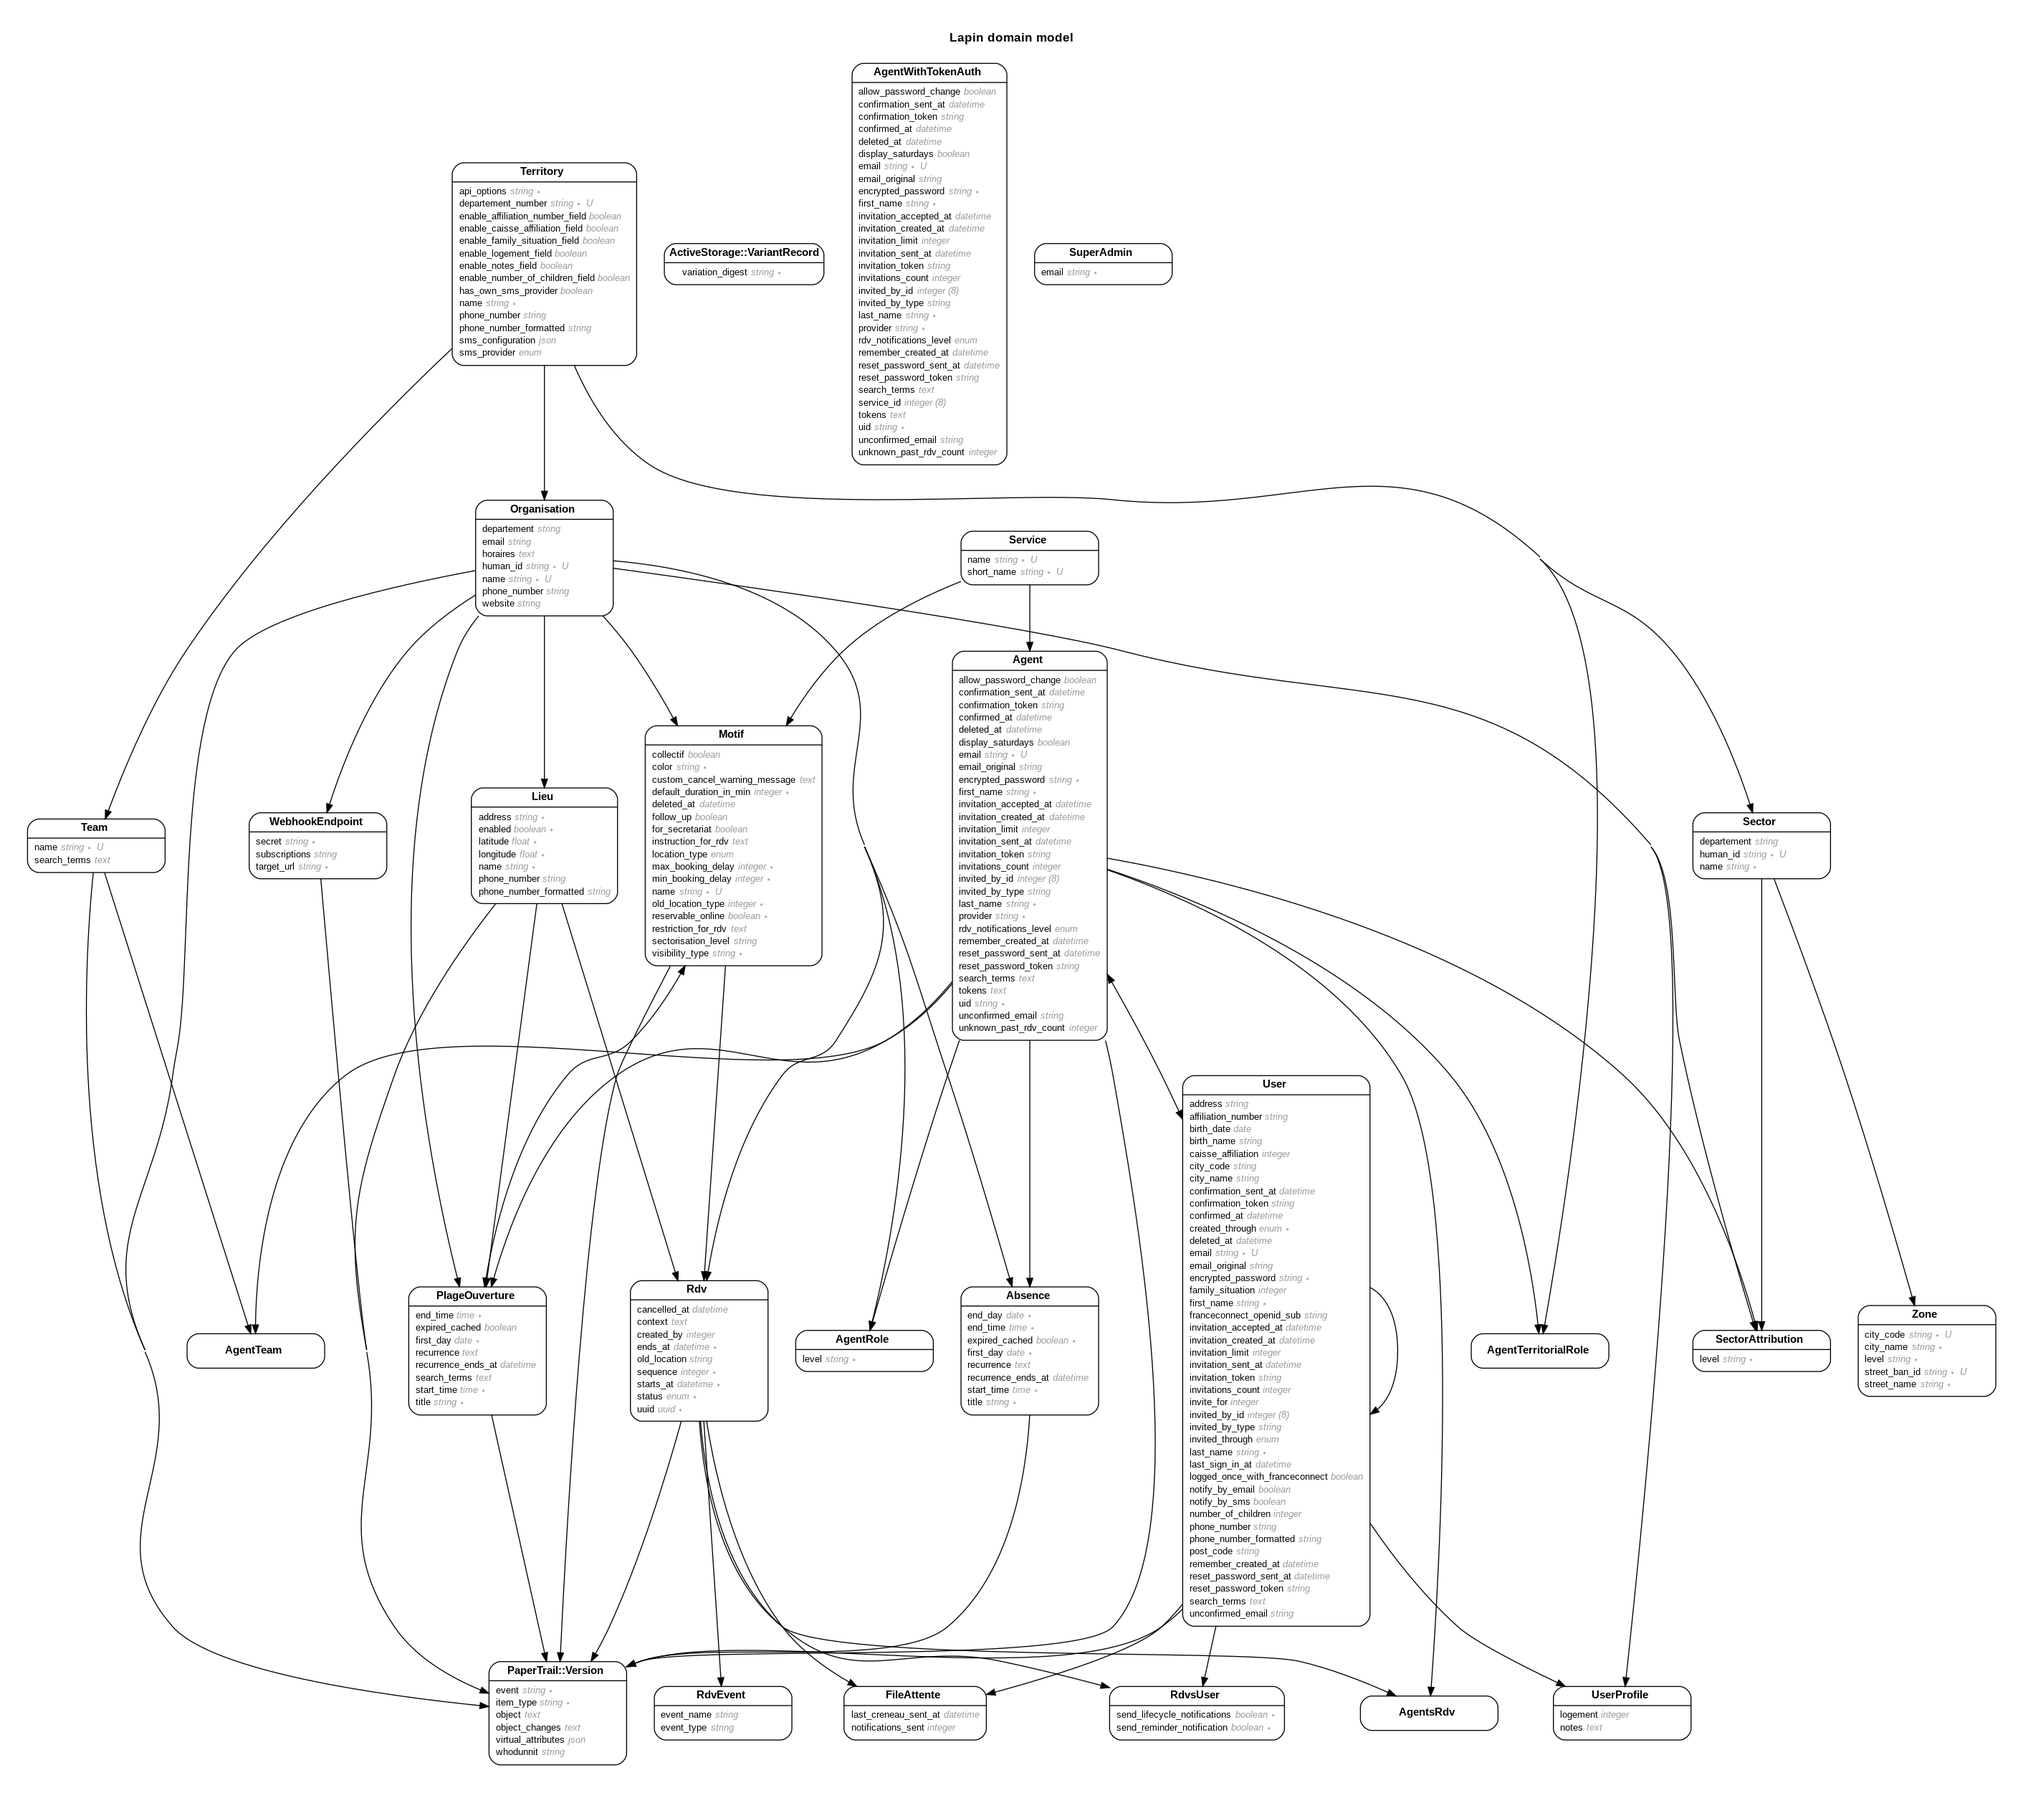
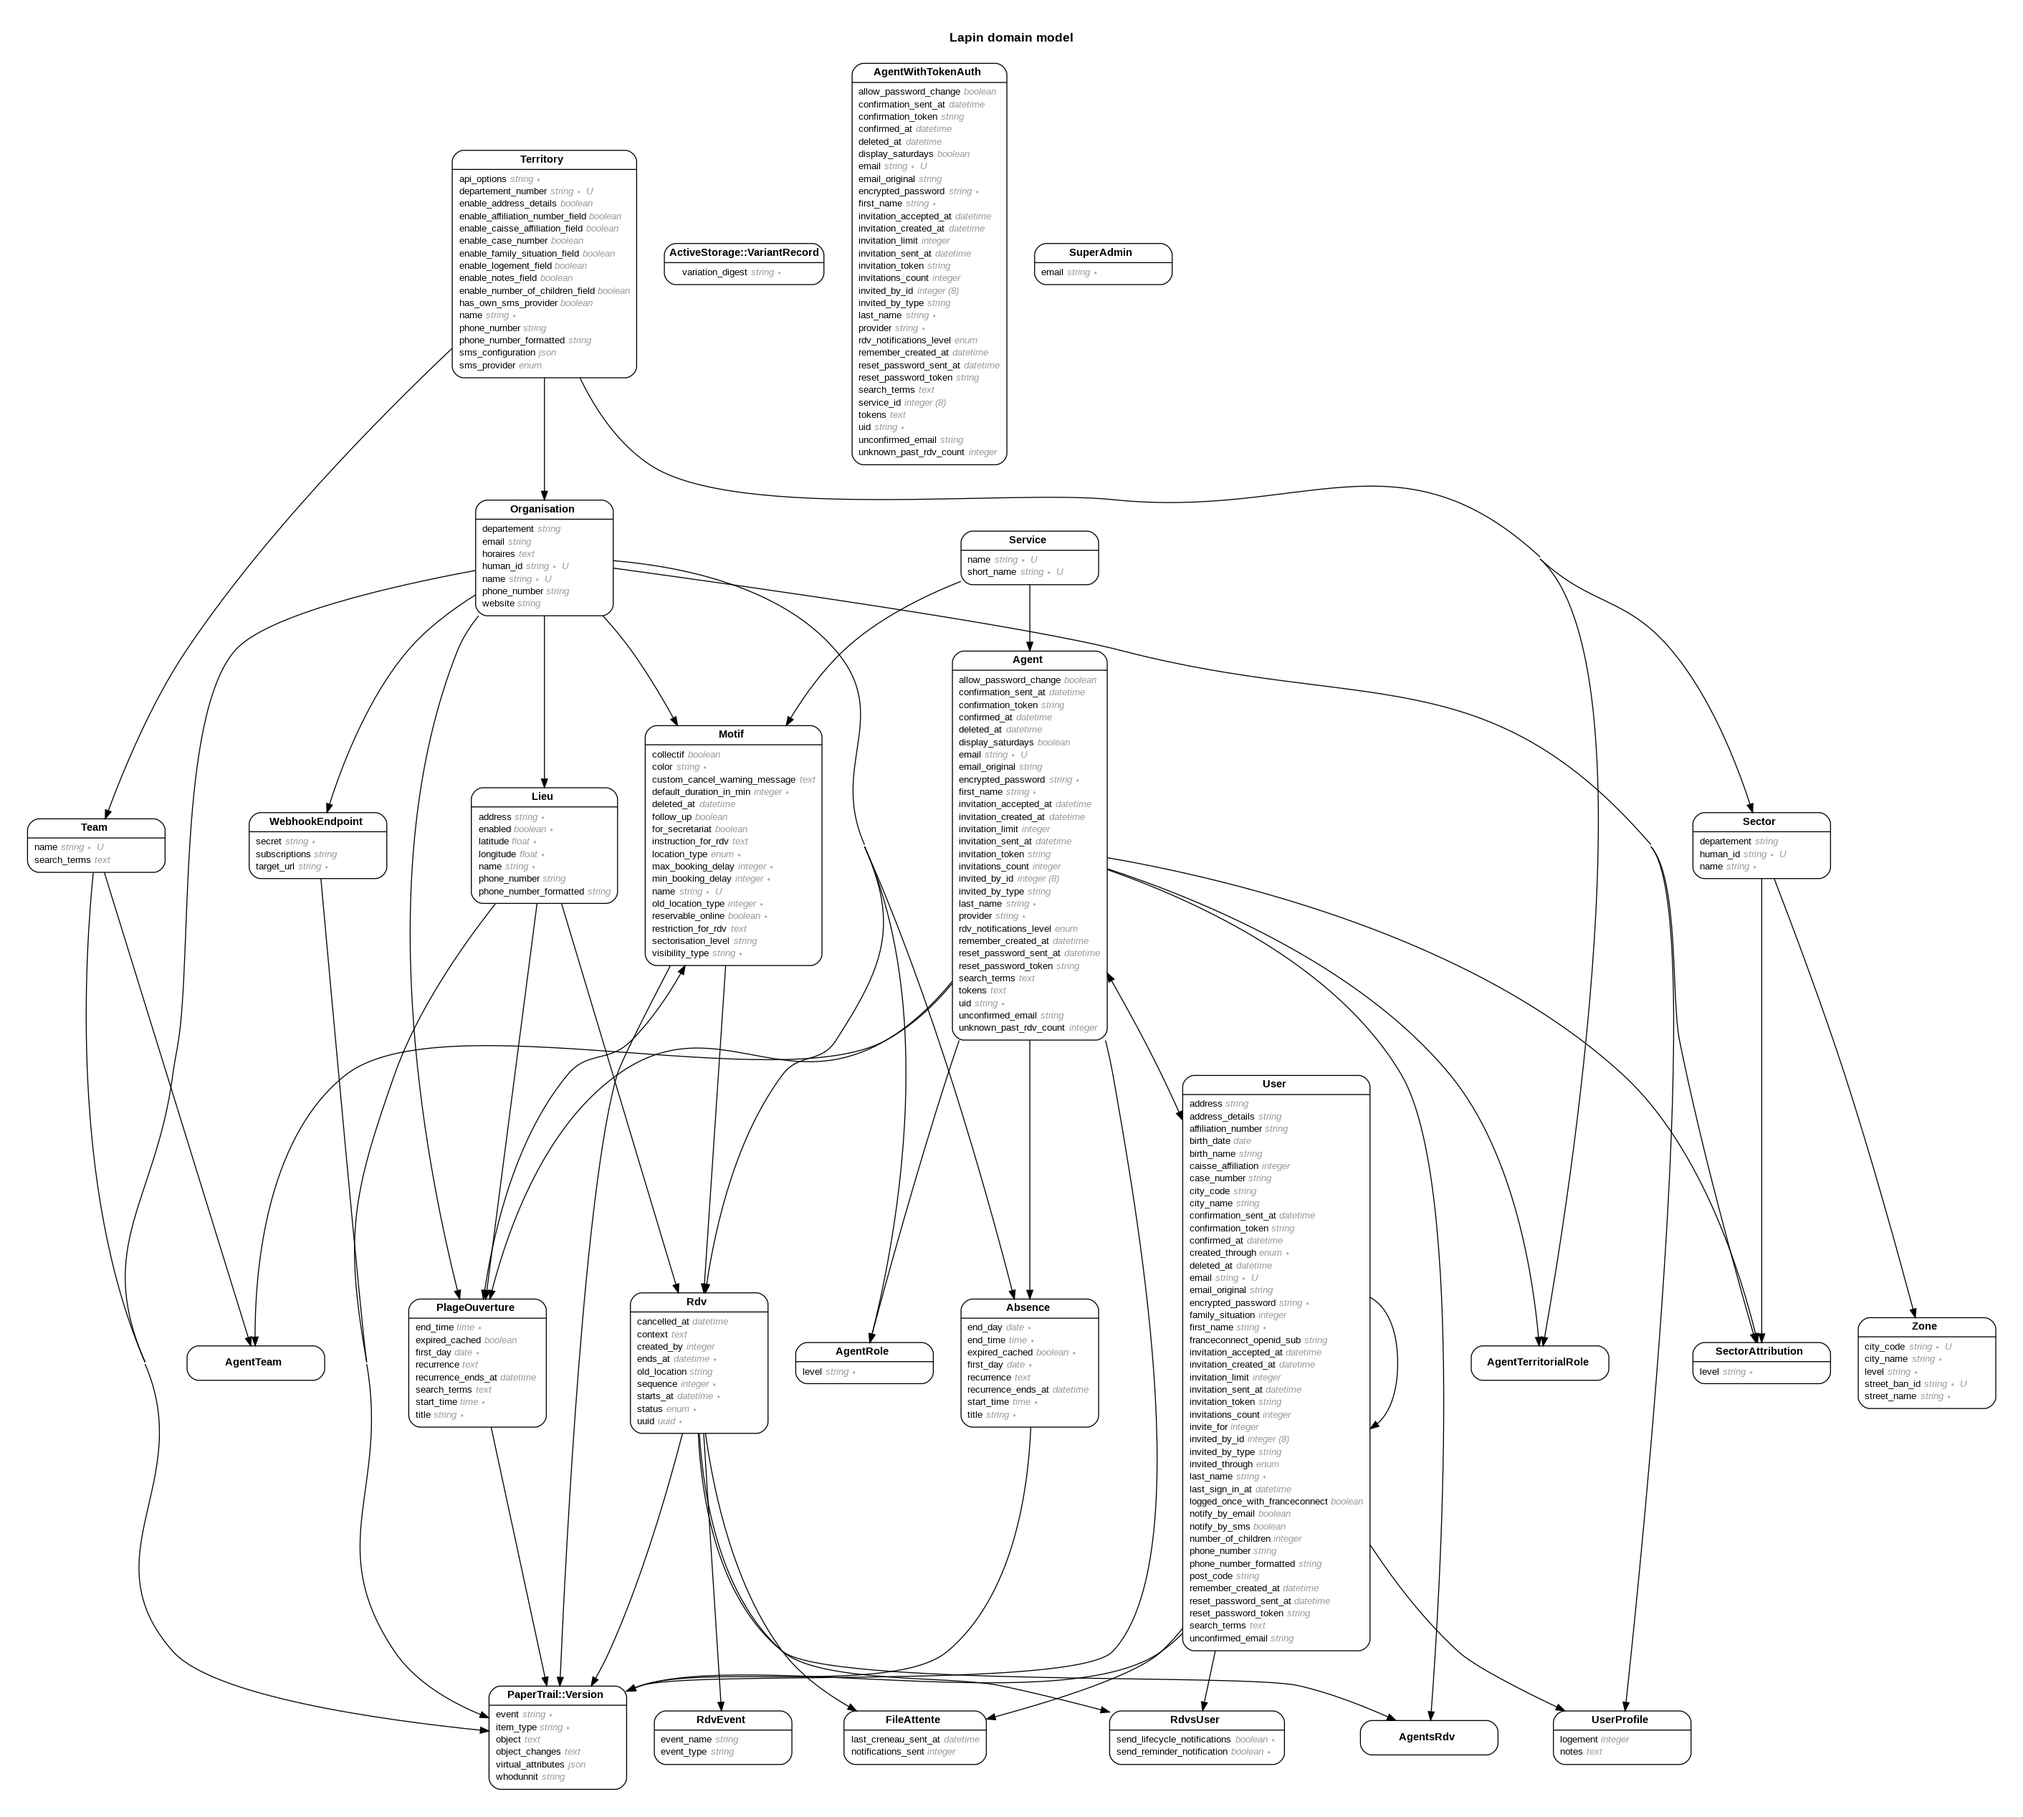
ajout le num dossier et complement adresse en option

diff --git a/db/schema.rb b/db/schema.rb
@@ -10,7 +10,7 @@
 #
 # It's strongly recommended that you check this file into your version control system.
 
-ActiveRecord::Schema.define(version: 2022_03_05_160339) do
+ActiveRecord::Schema.define(version: 2022_03_14_205349) do
 
   # These are extensions that must be enabled in order to support this database
   enable_extension "plpgsql"
@@ -445,6 +445,8 @@ ActiveRecord::Schema.define(version: 2022_03_05_160339) do
     t.boolean "enable_family_situation_field", default: false
     t.boolean "enable_number_of_children_field", default: false
     t.boolean "enable_logement_field", default: false
+    t.boolean "enable_case_number", default: false
+    t.boolean "enable_address_details", default: false
     t.index ["departement_number"], name: "index_territories_on_departement_number", unique: true, where: "((departement_number)::text <> ''::text)"
   end
 
@@ -504,6 +506,8 @@ ActiveRecord::Schema.define(version: 2022_03_05_160339) do
     t.enum "invited_through", default: "unknown", enum_type: "user_invited_through"
     t.enum "created_through", default: "unknown", enum_type: "user_created_through"
     t.text "search_terms"
+    t.string "case_number"
+    t.string "address_details"
     t.index "to_tsvector('simple'::regconfig, COALESCE(search_terms, ''::text))", name: "index_users_search_terms", using: :gin
     t.index ["confirmation_token"], name: "index_users_on_confirmation_token", unique: true
     t.index ["created_through"], name: "index_users_on_created_through"

diff --git a/app/models/territory.rb b/app/models/territory.rb
@@ -44,7 +44,9 @@ class Territory < ApplicationRecord
     enable_caisse_affiliation_field: :caisse_affiliation,
     enable_affiliation_number_field: :affiliation_number,
     enable_family_situation_field: :family_situation,
-    enable_number_of_children_field: :number_of_children
+    enable_number_of_children_field: :number_of_children,
+    enable_case_number: :case_number,
+    enable_address_details: :address_details
   }.freeze
 
   OPTIONAL_FIELD_TOGGLES = {

diff --git a/db/migrate/20220314205349_add_enable_case_number_to_territory.rb b/db/migrate/20220314205349_add_enable_case_number_to_territory.rb
@@ -1,0 +1,10 @@
+# frozen_string_literal: true
+
+class AddEnableCaseNumberToTerritory < ActiveRecord::Migration[6.1]
+  def change
+    add_column :territories, :enable_case_number, :boolean, default: false
+    add_column :territories, :enable_address_details, :boolean, default: false
+    add_column :users, :case_number, :string
+    add_column :users, :address_details, :string
+  end
+end
